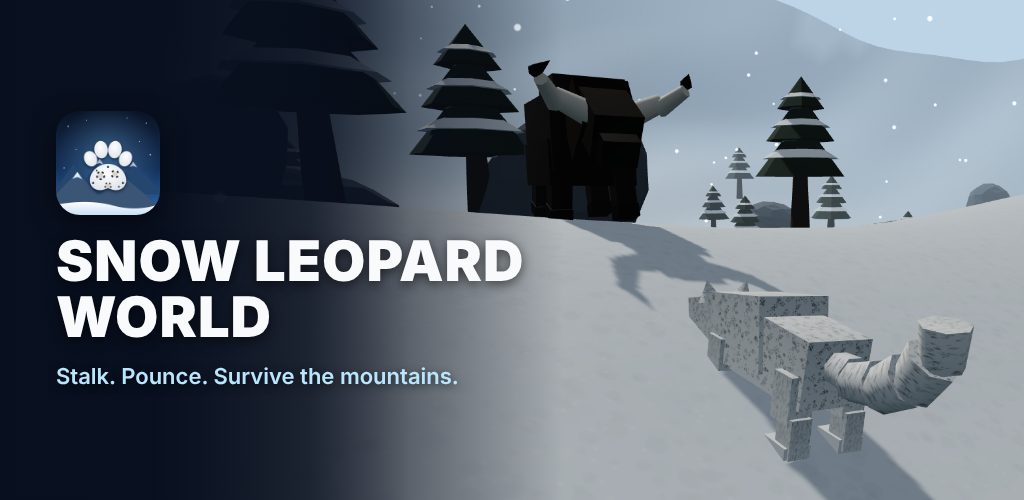
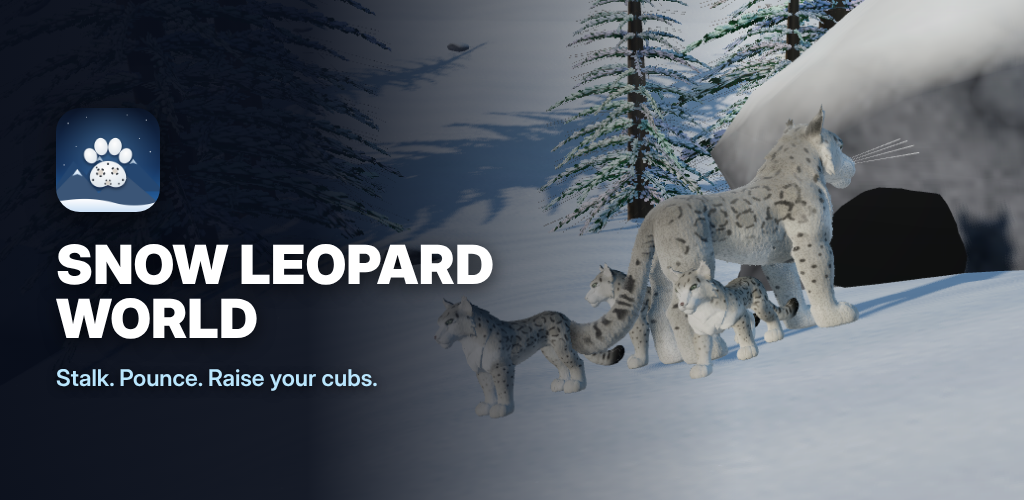
chore: version 1.1.0 (3), camera avoids boulders and trees, new store graphics, docs
- Camera pulls in in front of boulders and trees on its line of sight, or
  rises to look over a boulder hugged up close (camouflage puts you right
  against them); blizzard fog closes in further (6-80 m)
- Hidden badge moved below the player card, higher contrast
- Android versionCode 3, versionName 1.1.0
- README documents every new system; privacy policy covers error reports
- Store listing: six new 1920x1080 screenshots and a new feature graphic,
  rendered from the 1.1.0 game (the old ones showed a much older blocky
  build); outdated duplicates removed from google-play-assets

Claude-Session: https://claude.ai/code/session_019keCGMAXUFzPKRagnC4AJS

diff --git a/src/camera.js b/src/camera.js
@@ -108,9 +108,33 @@ export class GameCamera {
         break;
       }
     }
+    // Boulders and trees: pull in in front of them, or rise over a boulder hugged up close
+    let riseTo = -Infinity;
+    const flatLen = Math.hypot(dirX, dirZ);
+    if (flatLen > 0.05) {
+      const ux = dirX / flatLen, uz = dirZ / flatLen;
+      const maxFlat = camDist * flatLen;
+      for (const o of this.terrain.obstacles) {
+        const ox = o.x - this.target.x, oz = o.z - this.target.z;
+        const along = ox * ux + oz * uz; // distance along the camera ray (flat)
+        if (along < -o.radius || along > maxFlat + o.radius) continue;
+        const across = Math.abs(ox * uz - oz * ux);
+        const r = o.radius + 0.35;
+        if (across >= r) continue;
+        const entry = along - Math.sqrt(r * r - across * across); // where the ray enters it
+        const top = this.terrain.getTerrainHeight(o.x, o.z) + (o.kind === 'tree' ? 9 : o.kind === 'tent' ? 2.8 : o.radius * 1.05);
+        const camYAtEntry = this.target.y + dirY * (Math.max(0, entry) / flatLen);
+        if (camYAtEntry > top) continue; // the ray passes over it
+        const pulled = entry / flatLen - 0.3;
+        if (pulled >= MIN_PULL_IN) camDist = Math.min(camDist, pulled);
+        else if (o.kind !== 'tree') riseTo = Math.max(riseTo, top + 0.6); // too close: look over the boulder
+      }
+    }
+
     const desiredPos = this.desiredPos.set(this.target.x + dirX * camDist, this.target.y + dirY * camDist, this.target.z + dirZ * camDist);
     const groundAtCam = this.terrain.getTerrainHeight(desiredPos.x, desiredPos.z);
     if (desiredPos.y < groundAtCam + clearance) desiredPos.y = groundAtCam + clearance;
+    if (desiredPos.y < riseTo) desiredPos.y = riseTo;
 
     this.smoothPos.lerp(desiredPos, delta * 12);
     this.camera.position.copy(this.smoothPos);

diff --git a/src/style.css b/src/style.css
@@ -1342,15 +1342,15 @@ html, body {
 /* ------------------------------------------------------------------ camouflage badge */
 .camo-badge {
   position: absolute;
-  top: -8px;
-  left: 50%;
-  transform: translateX(-50%);
+  bottom: -30px;
+  left: -4px;
   white-space: nowrap;
-  font-size: 10px;
+  font-size: 12px;
   font-weight: 800;
-  color: #e9d5ff;
-  background: rgba(88, 28, 135, 0.85);
-  border: 1px solid #c4b5fd;
+  color: #fff;
+  background: #7c3aed;
+  border: 1.5px solid #ddd6fe;
+  box-shadow: 0 0 10px rgba(167, 139, 250, 0.7);
   border-radius: 8px;
   padding: 1px 6px;
   opacity: 0;

diff --git a/src/world.js b/src/world.js
@@ -204,8 +204,8 @@ export class World {
 
     const fog = this.scene.fog;
     fog.color.copy(c.fog).lerp(_ca.copy(BLIZZARD_FOG).multiplyScalar(0.35 + 0.65 * THREE.MathUtils.clamp(sunUp + 0.5, 0, 1)), bz * 0.85);
-    fog.near = THREE.MathUtils.lerp(c.fogNear, 14, bz);
-    fog.far = THREE.MathUtils.lerp(c.fogFar, 120, bz);
+    fog.near = THREE.MathUtils.lerp(c.fogNear, 6, bz);
+    fog.far = THREE.MathUtils.lerp(c.fogFar, 80, bz);
 
     const terrain = this.terrain;
     if (terrain.skyDome) terrain.skyDome.material.color.copy(c.sky).lerp(fog.color, bz * 0.9);

diff --git a/README.md b/README.md
@@ -25,7 +25,8 @@ Vite prints a local URL (http://localhost:5173/) and, because `dev` runs with `-
 | **Pounce Attack** | `Space` or `F` | 💥 **Pounce** button |
 | **Paw Swipe** | `Q` | 🐾 **Swipe** button |
 | **Scent Vision** | `V` key | 👃 **Scent** button |
-| **Eat / Feed** | `E` key (near downed carcass) | 🍖 **Eat** button |
+| **Eat / Feed / Dig** | `E` key (near a carcass or treasure) | 🍖 **Eat** / ✨ **Dig** button |
+| **Context action** | `R` key | Teal button above the action buttons: 🦷 Bite, 🦴 Drag, 🪨 Cache, ⬇ Drop, 💤 Rest, 🐾 Mark, 📣 Call |
 
 ---
 
@@ -38,14 +39,38 @@ Vite prints a local URL (http://localhost:5173/) and, because `dev` runs with `-
 - **RPG Progression:** Successful hunts and meals grant XP. Leveling up permanently increases Max Health, Stamina, and Attack Power!
 
 ### 2. 🦌 Prey AI & Perception
+All animals are defined in the `PREY_TYPES` table in `src/prey.js` (models in `src/wildlife.js`).
+- **Bharal (blue sheep):** the snow leopard's main real prey. Herds that flee uphill onto the crags.
 - **Himalayan Ibex:** Medium prey that graze in herds and sound alarm calls that stampede nearby herd mates.
 - **Snow Hare:** Small, agile winter hare with evasive zigzag fleeing patterns.
+- **Himalayan Marmot:** sits up on sentry, whistles the alarm and dives into its burrow, peeking out again later.
+- **Pika:** darts under the nearest boulder and hides.
+- **Himalayan Snowcock:** bursts into flight and lands further away; can't be caught in the air.
 - **Titan Crag Yak (Boss):** Huge, tough, and charges to ram you when provoked — until it's badly hurt.
-- **Sense System:** Prey react to sight cones and footstep noise (sprinting alerts from far; stalking allows close-range ambush). Spooked prey calm down and return to grazing once they've escaped.
+- **Grey wolves:** a pack that hunts the other animals, feeds on its kills, turns on you near its kill or up close, and retreats when badly hurt.
+- **Herders' camp:** goats graze at a camp guarded by two mastiffs. Take a goat and the dogs come for you (a nod to the real conflict that gets snow leopards killed).
+- **Sense System:** Prey react to sight cones and footstep noise (sprinting alerts from far; stalking allows close-range ambush). Darkness, twilight and blizzards cut how far they see and hear. Spooked prey calm down and return to grazing once they've escaped.
+
+### 🐾 Hunting like a snow leopard
+- **Ghost of the mountains:** hold still (or creep) beside a boulder and the 👻 Hidden badge appears: prey see you from a quarter of the distance.
+- **Ambush from above:** pounce at a spot at least 2.2 m below you for a longer, harder-hitting leap (2.8x damage).
+- **Throat bite:** a pounce that doesn't kill pins the animal for 2.2 s. Tap 🦷 Bite to finish it.
+- **Caching:** drag a kill (🦴) next to a rock or tree and cache it (🪨). Cached kills keep 10 minutes and scavengers ignore them. Kills left in the open draw bearded vultures and ravens.
+- **Territory:** scent-mark boulders (🐾 Mark). Marks stay fresh for 4 in-game days; each dawn pays 3 Pelts per fresh mark. With 3+ marks a rival snow leopard comes to mark over yours: drive it off (`src/territory.js`).
+
+### 🌄 Day, night & weather
+A full day lasts 14 minutes (`src/world.js`). Dawn and dusk are the best hunting light; prey see less at night. Weather drifts between clear, snow and blizzard. A blizzard thickens the fog and wind and shortens how far prey sense you and how far Scent Vision reaches. Rest in one of the three dens (💤) to skip to dawn and heal.
+
+### 🍼 Family
+From level 3, at dusk or night, 📣 Call (a yowl) brings a mate. Stay close until you bond, then rest in a den to give birth to 2-3 cubs. Cubs follow you, share your meals and grow each day they're fed; after 6 days they leave to claim their own range (`src/family.js`, other leopards in `src/npc.js`).
+
+### 📜 Quests
+16 guided quests walk through every behaviour, then endless wild challenges (`src/quests.js`). A first-run tutorial (`src/tutorial.js`) teaches the controls one step at a time.
 
 ### 3. 👃 Scent Vision
 - Triggers a sensory sonar pulse across the snow.
-- Draws scent trails toward nearby living prey (amber: ibex, cyan: hare, red: boss).
+- Draws scent trails toward nearby living prey (amber: ibex, slate blue: bharal, cyan: hare, gold: marmot, pink: pika, lime: snowcock, orange: wolves and dogs, red: boss).
+- Marked boulders glow violet, and buried treasure shoots up a beam.
 - The compass radar shows the nearest prey and its distance.
 
 ### 🐆 Snow Leopard Model
@@ -79,8 +104,17 @@ Vite prints a local URL (http://localhost:5173/) and, because `dev` runs with `-
 - **Real-money products** (Crystal packs, Remove Ads) are listed but show **Coming soon** until Google Play Billing is connected. Setup steps are in `src/store.js`. Nothing is granted without a real purchase.
 - Wallet, purchases and daily progress are kept when you start a New game. Tuning lives in `src/economy.js`.
 
+### ⚙ Settings
+Volume (master, effects, wind), look speed, invert up/down, graphics quality (Auto / Low / High, applied on restart), vibration, replay tutorial and New game (`src/settings.js`, stored on the device only).
+
+### 🎨 Coat colours & rewarded ads
+Six coat colours (`src/coats.js`) are sold in the shop and worn from the Wardrobe. Optional rewarded videos, only offered when an ad is ready: double the Pelts from a kill, one bonus treasure chest per day, and up to two shop offer refreshes per day. The one-time Starter Pack (`src/store.js`) waits for Google Play Billing like the other real-money products.
+
+### 🐞 Error reports
+JavaScript errors and lost WebGL contexts are sent to the Firestore collection `errorReports` (no personal data; see `src/errors.js`). Read them in the Firebase console under Firestore Database. After changing `firestore.rules`, paste the file into the console's Rules tab and publish.
+
 ### 💾 Saving
-Progress saves automatically (every 15 seconds, after each kill, meal, revive or respawn, and whenever the app is backgrounded). Level, XP, vitals, hunt totals, position and difficulty are restored on the next launch. **New game** under the difficulty toggle resets the leopard; accessories, Pelts, Crystals and daily progress are kept. Saves live on the device (`src/save.js`), so uninstalling the app or clearing its data removes them.
+Progress saves automatically (every 15 seconds, after each kill, meal, revive or respawn, and whenever the app is backgrounded). Level, XP, vitals, hunt totals, position, difficulty, the time of day, territory marks, quest progress and cubs are restored on the next launch. **New game** under the difficulty toggle resets the leopard; accessories, Pelts, Crystals and daily progress are kept. Saves live on the device (`src/save.js`), so uninstalling the app or clearing its data removes them.
 
 
 ### ☁ Cloud Saves (off until set up)

diff --git a/PRIVACY.md b/PRIVACY.md
@@ -1,6 +1,6 @@
 # Privacy Policy — Snow Leopard World
 
-_Last updated: October 11, 2026_
+_Last updated: October 12, 2026_
 
 Snow Leopard World is a single-player game. You don't need an account to play, and unless you turn on cloud saves, your progress stays on your device and we collect no personal information.
 
@@ -29,6 +29,10 @@ If you choose **Sign in with Google** in the game's Cloud Save menu, your progre
 This data is used only to save and restore your game. It isn't sold, shared or used for advertising. Google processes it as described at https://firebase.google.com/support/privacy.
 
 You can **delete your cloud save and sign-in account at any time** with **Delete my cloud save** in the Cloud Save menu, or by emailing the contact address on the Google Play listing. Full steps, and what is deleted, are on the [account deletion page](ACCOUNT_DELETION.md). Signing out keeps your cloud save so you can sign in again later.
+
+## Error reports
+
+If the game hits a technical error, it sends a short report to our Google Firebase project so we can fix it: the error message, the game version, your device's browser/system description (which includes the phone model) and the name of its graphics chip. Reports contain no account, name, email or game progress, and are used only to fix bugs.
 
 ## Children
 

diff --git a/store-listing/README.md b/store-listing/README.md
@@ -6,4 +6,11 @@
 | `feature-graphic.png` | Feature graphic | 1024×500 PNG |
 | `screenshot-*.jpg` | Phone screenshots (also usable for 7" and 10" tablet) | 1920×1080, 16:9 landscape |
 
-Screenshots are real in-game renders.
+Screenshots are real in-game renders of version 1.1.0:
+
+1. `screenshot-1-stalk.jpg`: stalking a bharal herd at dusk
+2. `screenshot-2-ambush.jpg`: an ambush pounce off a ledge onto an ibex
+3. `screenshot-3-wolves-blizzard.jpg`: facing a wolf pack in a blizzard
+4. `screenshot-4-scent-night.jpg`: Scent Vision trails by moonlight
+5. `screenshot-5-cubs.jpg`: a mother and her three cubs at their den
+6. `screenshot-6-wardrobe.jpg`: coat colours and accessories in the Wardrobe

diff --git a/google-play-assets/README.md b/google-play-assets/README.md
@@ -1,0 +1,5 @@
+# Google Play assets
+
+The current store graphics (feature graphic and phone screenshots) live in
+[`../store-listing`](../store-listing/README.md). This folder only keeps the
+512×512 app icon with transparency.
